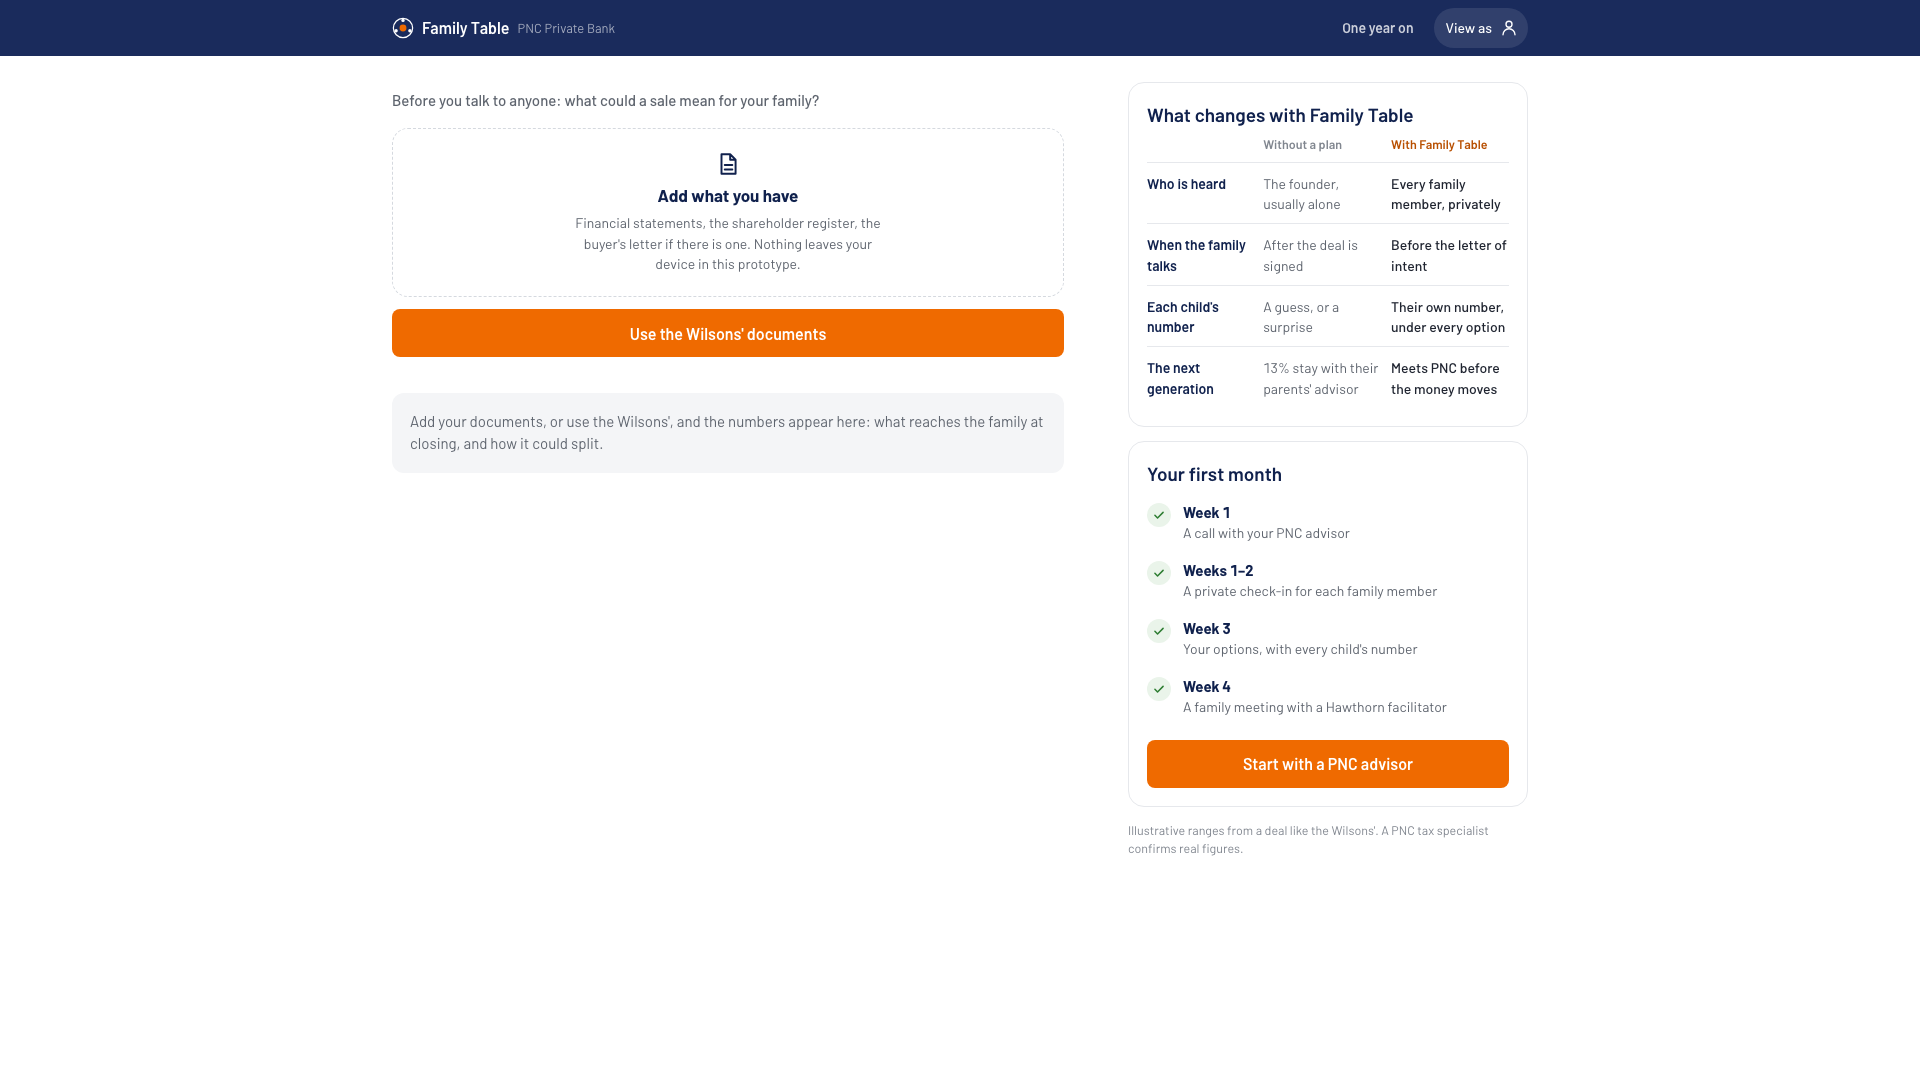
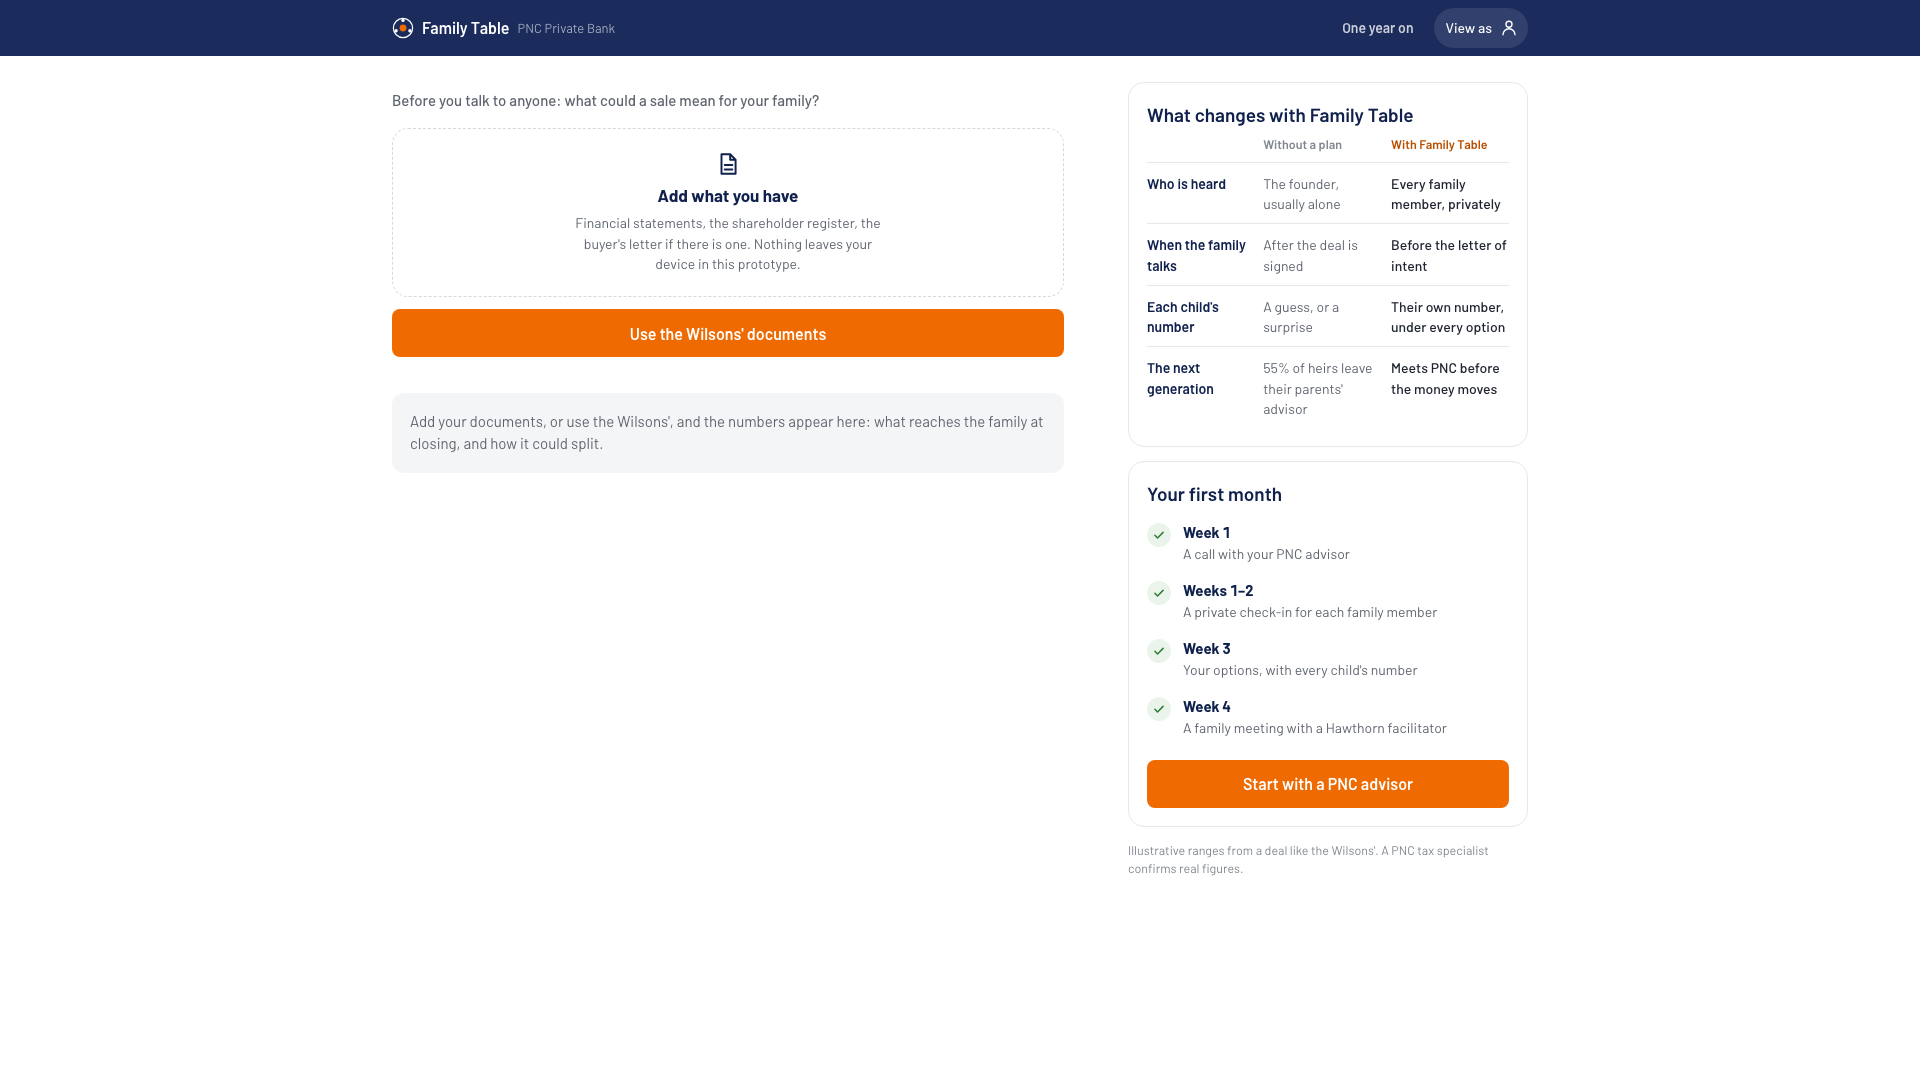
Prototype: the deck's figures and step lines
Splash "Why now" now shows the market slide: $124T through 2048, 83% family
dynamics, 55% of heirs leave the advisor, with the deck's three sources.
The three steps carry the experience slide's one-liners. Signal, Preview and
the story problem card cite Natixis 2026 instead of Cerulli 2019. Stills,
the cited-statistics table and the narration script updated to match.

Changed region(s): [[0.5938, 0.4278, 0.7812, 0.825], [0.6562, 0.3361, 0.7188, 0.3972]]

diff --git a/prototype/app.js b/prototype/app.js
@@ -107,9 +107,9 @@
 
   // Three steps. The deck's Signal and Join fold into Align; Continue folds into Activate.
   const STAGES = [
-    { id: "align", label: "Align", icon: "lock" },
-    { id: "allocate", label: "Allocate", icon: "scale" },
-    { id: "activate", label: "Activate", icon: "chat" },
+    { id: "align", label: "Align", icon: "lock", line: "Surface views privately" },
+    { id: "allocate", label: "Allocate", icon: "scale", line: "Make trade-offs visible" },
+    { id: "activate", label: "Activate", icon: "chat", line: "Act with the advisor" },
   ];
 
   // ---------- visualisations ----------
@@ -212,16 +212,16 @@
             <div class="onb-ctas"><button class="btn xl" data-act="tour-start">Start the 2-minute demo</button><a class="btn xl ghost-w" href="#/preview">Preview it for your family</a></div>
           </div>
           <div class="onb-how"><h2>How it works</h2>
-            <ol class="stages">${STAGES.map((s, i) => `<li style="--i:${i}"><span class="st-ic">${ic(s.icon, 18)}</span><span class="st-tx"><b>${s.label}</b></span></li>`).join("")}</ol></div>
+            <ol class="stages">${STAGES.map((s, i) => `<li style="--i:${i}"><span class="st-ic">${ic(s.icon, 18)}</span><span class="st-tx"><b>${s.label}</b><span>${s.line}</span></span></li>`).join("")}</ol></div>
         </div></div></section>
       <section class="onb-end"><div class="in">
-        <h2>Why now</h2>
+        <h2>A business exit puts both assets and family relationships in motion</h2>
         <div class="ends">
-          <div><b data-count="124" data-fmt="t">$124T</b><span>in wealth transfers in the United States by 2048</span></div>
-          <div><b>3 in 4</b><span>Americans have no will, and most heirs leave their parents' advisor</span></div>
-          <div><b data-count="2" data-fmt="p">2%</b><span>of 30 million family-owned U.S. businesses reach a $10&ndash;50M valuation</span></div>
+          <div><b data-count="124" data-fmt="t">$124T</b><span>projected U.S. wealth transfer through 2048</span></div>
+          <div><b data-count="83" data-fmt="p">83%</b><span>of business owners say family dynamics affect succession or exit planning</span></div>
+          <div><b data-count="55" data-fmt="p">55%</b><span>of spouses and heirs say they will not, or did not, retain their benefactor's advisor</span></div>
         </div>
-        <p class="small muted">Only 1,800 to 3,500 of these family businesses sell each year. Sources: U.S. Census Bureau, Family Enterprise USA, PitchBook &amp; GF Data, IBBA Market Pulse.</p>
+        <p class="small muted">89% of owners want connected business and personal advice; 67% still manage those needs separately. Sources: Cerulli Associates (2024); PNC Private Bank Business Owner Wealth Insights 2026; Natixis Investment Managers Wealth Transfer Report 2026.</p>
       </div></section>
       <section class="onb-cast"><div class="in"><h2>Meet the Wilsons</h2>
         <p class="muted">Margaret built Wilson Transport over 35 years. Now she's selling it for $48.0M, sure her children agree on what's fair.</p>
@@ -459,7 +459,7 @@
           <div class="cta-row">${state.started ? `<button class="btn done" disabled>${ic("check", 18, 2.4)} Called Margaret on Oct 15</button>` : `<button class="btn" data-act="start">${ic("phone", 18)} Call Margaret</button>`}</div></section>
       </div><aside class="col-side">
         <section class="panel stake"><div class="label">At stake for PNC</div><div class="value">${range(heirSum(0), heirSum(1))}</div>
-          <p class="small muted">heading to Claire and Sam at closing. Neither banks with PNC, and only 13% of adult children use their parents' advisor (Cerulli, 2019).</p></section>
+          <p class="small muted">heading to Claire and Sam at closing. Neither banks with PNC, and 55% of spouses and heirs say they will not, or did not, retain their benefactor's advisor (Natixis, 2026).</p></section>
         <section class="panel"><div class="section-head"><h2>The Wilson family</h2><span class="aside">Status, not answers</span></div><div class="table-viz">${familyTable(240)}</div></section>
         ${state.started ? nextLink("me/margaret", "Margaret invites her family") : ""}
       </aside></div></div>`;
@@ -891,9 +891,9 @@
       hook: `${eyebrow}<h1>Margaret is selling the company she built. Her family has never talked about what's fair.</h1><p class="sub">Most families don't, until the money arrives. By then, the advisor is the last to know.</p>`,
       cast: `${eyebrow}<h1>One sale, seen from both sides.</h1><div class="cast">${tile("margaret", "Margaret Wilson", "Founder, Wilson Transport")}${tile("alex", "Alex Lee, PNC", "Private Business Strategist")}${S.people.filter(p => p.id !== "margaret").map(p => tile(p.id, p.name, p.role.split(",")[0])).join("")}</div>`,
       problem: `${eyebrow}<h1>The sale is when families split and money leaves the bank.</h1><div class="stats">
-        <div class="stat"><b>13%</b><p>of adult children use their parents' financial advisor.</p><small>Cerulli Associates, 2019</small></div>
-        <div class="stat"><b>75%</b><p>of owners “profoundly regretted” selling a year later.</p><small>PNC, Begin at the end</small></div>
-        <div class="stat"><b>1 in 2</b><p>business exits are involuntary: death, illness, divorce or dispute.</p><small>PNC Business Succession Planning series</small></div></div>`,
+        <div class="stat"><b>83%</b><p>of business owners say family dynamics affect succession or exit planning.</p><small>PNC Business Owner Wealth Insights, 2026</small></div>
+        <div class="stat"><b>67%</b><p>still manage business and personal finances separately, though 89% want them connected.</p><small>PNC Business Owner Wealth Insights, 2026</small></div>
+        <div class="stat"><b>55%</b><p>of spouses and heirs will not, or did not, keep their benefactor's advisor.</p><small>Natixis Wealth Transfer Report, 2026</small></div></div>`,
       sauce: `${eyebrow}<h1>Why only PNC can build this</h1><div class="stats pillars">
         <div class="stat"><span class="pi">${ic("flag", 26)}</span><b>A signal PNC already holds</b><p>Business-account activity can flag a sale a year before closing.</p></div>
         <div class="stat"><span class="pi">${ic("lock", 26)}</span><b>Private by default</b><p>Each person answers alone. The advisor sees the gaps, not the words.</p></div>

diff --git a/prototype/data.js b/prototype/data.js
@@ -169,7 +169,7 @@ window.SEED = {
       ["Who is heard", "The founder, usually alone", "Every family member, privately"],
       ["When the family talks", "After the deal is signed", "Before the letter of intent"],
       ["Each child's number", "A guess, or a surprise", "Their own number, under every option"],
-      ["The next generation", "13% stay with their parents' advisor", "Meets PNC before the money moves"],
+      ["The next generation", "55% of heirs leave their parents' advisor", "Meets PNC before the money moves"],
     ],
     month: [
       ["Week 1", "A call with your PNC advisor"],

diff --git a/video/VIDEO_PLAN.md b/video/VIDEO_PLAN.md
@@ -27,7 +27,7 @@ The demo follows the guided tour, which alternates the family side and the advis
 | # | Screen (prototype route) | Side | On-screen action | Narration (Nindy) |
 |---|---|---|---|---|
 | 1 | `story/hook` | — | — | Margaret Wilson is selling the trucking company she built over thirty-five years. Her family has never talked about what's fair. |
-| 2 | `story/problem` | — | stats build in | Most families don't, until the money arrives. By then the advisor has heard from one person, and only thirteen percent of adult children keep their parents' advisor. |
+| 2 | `story/problem` | — | stats build in | Most families don't, until the money arrives. By then the advisor has heard from one person, and more than half of heirs don't keep their parents' advisor. |
 | 3 | `story/cast` | — | Margaret, Alex, then the family | Family Table helps both sides of the sale: Margaret's family, and Alex, her PNC advisor. |
 | 4 | `advisor` | Advisor | chart draws; cursor → **Call Margaret** | PNC already banks the business. Payments to deal advisers flag a likely sale a year ahead, so Alex calls Margaret before anything is signed. |
 | 5 | `me/margaret` | Family | cursor → **Invite the family**; voices appear | Margaret previews what a sale could mean, sets her goals, and invites her family. Each of them answers in private. |
@@ -41,7 +41,7 @@ The demo follows the guided tour, which alternates the family side and the advis
 **Hard cap is 2:00.** If the take runs long, cut line 3 first, then the last sentence of line 8. Lines 4 to 7 and 10 stay.
 
 **Facts spoken, all cited on screen:**
-- "Thirteen percent" is from Cerulli 2019, via InvestmentNews.
+- "Fifty-five percent" (heirs who do not keep the benefactor's advisor) is from the Natixis Wealth Transfer Report 2026; the 83% and 67% figures are PNC Business Owner Wealth Insights 2026, as on the deck.
 - "Eight million dollars" is the prototype's fictional figure ($8.0M to $9.0M for Claire and Sam).
 - No other statistics are spoken.
 

diff --git a/PROJECT_CONTEXT.md b/PROJECT_CONTEXT.md
@@ -135,14 +135,17 @@ A gap of 0.75 or more recommends a facilitator.
 
 **Contingency:** if Margaret can't continue before closing, Ben runs operations for 90 days and the family decides within 30.
 
-**Cited statistics (only these):**
+**Cited statistics (the team deck's, Oct 28; the prototype uses only these):**
 
 | Statistic | Source |
 |---|---|
-| 13% of adult children use their parents' financial advisor | Cerulli 2019, via InvestmentNews |
-| 75% of owners "profoundly regretted" selling a year later | PNC, *Begin at the end* |
-| 50% of exits are involuntary | PNC Business Succession Planning series |
-| 1 in 3 owners have no formal plan; family conflict is the top reason | PNC Business Succession Planning series |
+| $124T projected U.S. wealth transfer through 2048 | Cerulli Associates, 2024 |
+| 89% of owners want connected business and personal advice; 67% still manage those needs separately | PNC Private Bank Business Owner Wealth Insights 2026 |
+| 83% say family dynamics affect succession or exit planning | PNC Private Bank Business Owner Wealth Insights 2026 |
+| 55% of spouses and heirs say they will not, or did not, retain their benefactor's advisor | Natixis Investment Managers Wealth Transfer Report 2026 |
+| $499B total client assets under administration (group-wide scale, not a post-sale TAM); $146B Private Bank AUM | PNC 3Q 2026 Financial Supplement |
+
+The overview site (`index.html`, `case.html`) still carries the older PNC Business Succession Planning figures (75% regret, 50% involuntary, 1 in 3 no plan); swap them if the site is shown next to the deck.
 
 **Economics (sensitivity, not a forecast):**
 - Assumes a 0.8% blended fee, to validate with PNC.

diff --git a/video/RECORDING_SCRIPT.md b/video/RECORDING_SCRIPT.md
@@ -15,7 +15,7 @@ Margaret Wilson is selling the trucking company / she built over **thirty-five y
 *(pause 2 s)*
 
 ### 2 · Problem · about 10 s
-Most families don't, / until the money arrives. / By then the advisor has heard from **one person**, / and only **thirteen percent** of adult children / keep their parents' advisor.
+Most families don't, / until the money arrives. / By then the advisor has heard from **one person**, / and more than **half of heirs** / don't keep their parents' advisor.
 
 *(pause 2 s)*
 
@@ -66,7 +66,7 @@ Why only PNC? / It **sees** the sale coming, / **hears** what families won't say
 
 ## Tone
 - **Calm and warm** on line 1, like telling a friend about someone you know. Then confident, like talking to one person.
-- **Slow down** on "fair", "thirteen percent", "a year ahead" and "four voices".
+- **Slow down** on "fair", "half of heirs", "a year ahead" and "four voices".
 - **Land the ending:** a short beat after "Family Table.", then the last line, slowly.
 
 **Pronunciation:** Wilson **WIL-sun** · Hawthorn **HAW-thorn**
